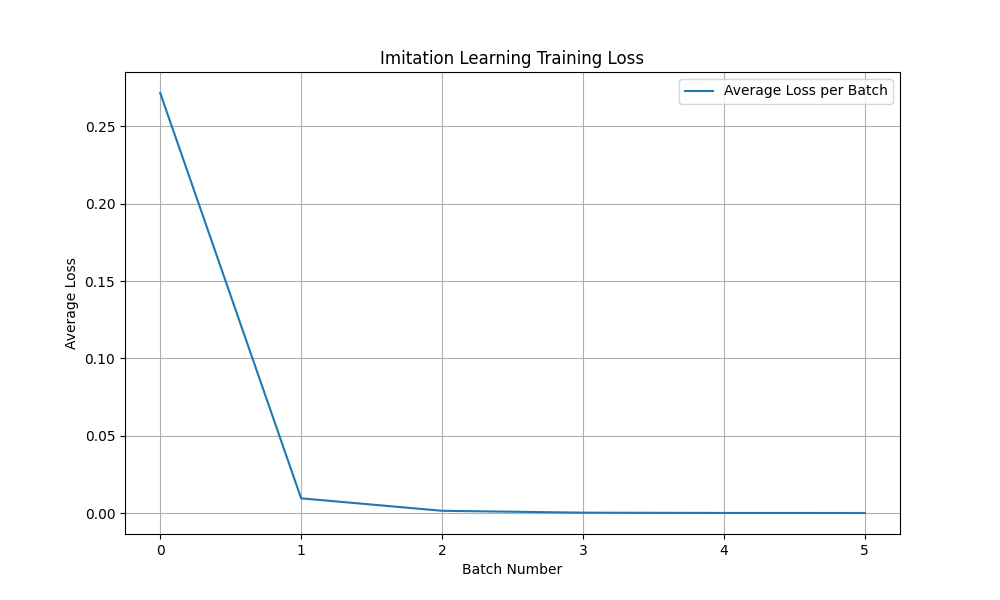
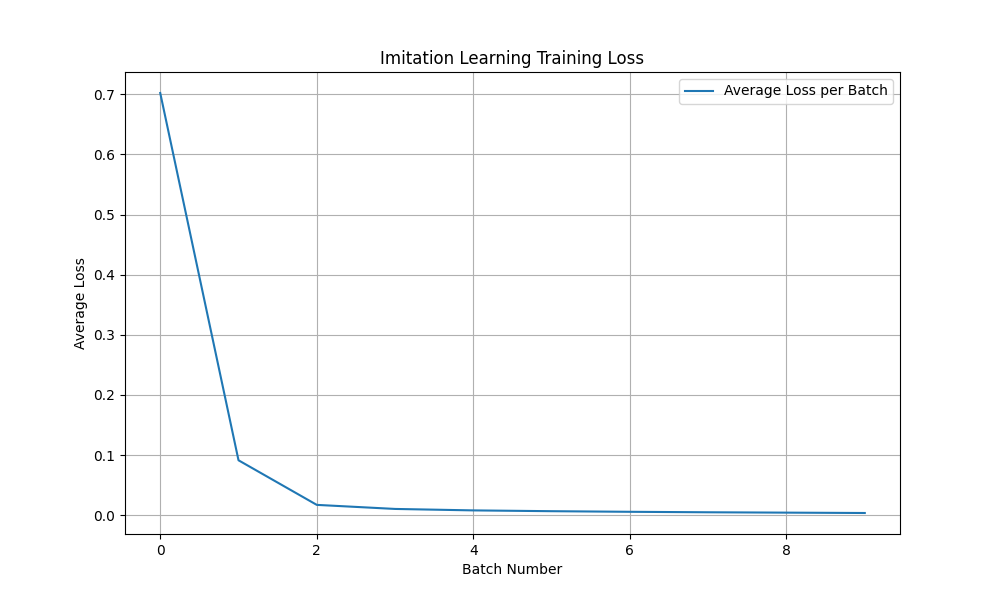
fix new column features

diff --git a/src/memory.py b/src/memory.py
@@ -150,15 +150,21 @@ class Memory():
         serializable_memory = []
         
         for experience in self.memory_list:
-            (state_array, piece_type), action, reward, (next_state_array, next_piece_type) = experience
+            (state_array, piece_type, state_column_features), action, reward, (next_state_array, next_piece_type, next_state_column) = experience
             
             serializable_memory.append((
-                (state_array.cpu().numpy() if torch.is_tensor(state_array) else state_array,
-                piece_type.cpu().numpy() if torch.is_tensor(piece_type) else piece_type),
+                (
+                    state_array.cpu().numpy() if torch.is_tensor(state_array) else state_array,
+                    piece_type.cpu().numpy() if torch.is_tensor(piece_type) else piece_type,
+                    state_column_features.cpu().numpy() if torch.is_tensor(state_column_features) else state_column_features
+                ),
                 action,
                 reward,
-                (next_state_array.cpu().numpy() if torch.is_tensor(next_state_array) else next_state_array,
-                next_piece_type.cpu().numpy() if torch.is_tensor(next_piece_type) else next_piece_type)
+                (
+                    next_state_array.cpu().numpy() if torch.is_tensor(next_state_array) else next_state_array,
+                    next_piece_type.cpu().numpy() if torch.is_tensor(next_piece_type) else next_piece_type, 
+                    next_state_column.cpu().numpy() if torch.is_tensor(next_state_column) else next_state_column
+                )
             ))
         
         with open(path, 'wb') as f:
@@ -185,16 +191,23 @@ class Memory():
         
         self.memory_list = []
         for experience in data['memory_list']:
-            (state_array, piece_type), action, reward, (next_state_array, next_piece_type) = experience
+            (state_array, piece_type, state_column_features), action, reward, (next_state_array, next_piece_type, next_state_column_features) = experience
             
             # Convert numpy arrays to tensors
             self.memory_list.append((
-                (torch.from_numpy(state_array).float() if isinstance(state_array, np.ndarray) else state_array,
-                torch.from_numpy(piece_type).float() if isinstance(piece_type, np.ndarray) else piece_type),
+                (
+                    torch.from_numpy(state_array).float() if isinstance(state_array, np.ndarray) else state_array,
+                    torch.from_numpy(piece_type).float() if isinstance(piece_type, np.ndarray) else piece_type,
+                    torch.from_numpy(state_column_features).float() if isinstance(state_column_features, np.ndarray) else state_column_features
+                ),
                 action,
                 reward,
-                (torch.from_numpy(next_state_array).float() if isinstance(next_state_array, np.ndarray) else next_state_array,
-                torch.from_numpy(next_piece_type).float() if isinstance(next_piece_type, np.ndarray) else next_piece_type)
+                (
+                    torch.from_numpy(next_state_array).float() if isinstance(next_state_array, np.ndarray) else next_state_array,
+                    torch.from_numpy(next_piece_type).float() if isinstance(next_piece_type, np.ndarray) else next_piece_type, 
+                    torch.from_numpy(next_state_column_features).float() if isinstance(next_state_column_features, np.ndarray) else next_state_column_features
+                ),
+                
             ))
         
 # ----------------------------------------------

diff --git a/src/q_agent.py b/src/q_agent.py
@@ -99,7 +99,7 @@ class Agent:
             else:
                 self.imitation_learning_memory = Memory(maxlen=30000)
                 self.imitation_learning_memory.load_memory(path=MEMORY_PATH)
-                #self.train_imitation_learning(batch_size=1024, epochs_per_batch=1)
+                self.train_imitation_learning(batch_size=1024, epochs_per_batch=10)
 
 
         logger.log(f"actions in __init__: {self.actions}")
@@ -171,7 +171,9 @@ class Agent:
         for (state_game_board, state_piece_type, state_column_features), action, _, _ in batch:
             states_game_board.append(state_game_board)
             piece_types.append(state_piece_type)
-            states_column_features.append(state_column_features)
+            if isinstance(state_column_features, np.ndarray):
+                state_column_features = torch.from_numpy(state_column_features).float()
+            states_column_features.append(state_column_features.reshape(-1))  # Flatten to 1D
             actions.append(action)
         
         # convert to tensors
@@ -179,6 +181,10 @@ class Agent:
         piece_types = torch.stack(piece_types).to(device)
         states_column_features = torch.stack(states_column_features).to(device)
         actions = torch.tensor(actions, dtype=torch.long).to(device)
+        
+        
+        # this reshape is necessary for imitation learning
+        state_column_features = states_column_features.view(states_game_board.size(0), -1)
 
         # Get model predictions
         q_values = self.model(

diff --git a/src/config.py b/src/config.py
@@ -28,7 +28,7 @@ FIFO_CONTROLS = "fifo_controls"
 LOGGING = False
 
 EPSILON_DECAY = 0.9955
-EPSILON = 1.0
+EPSILON = 0.2#1.0
 DISCOUNT = 0.96
 EPSILON_COUNTER_EPOCH = 50
 MIN_EPSILON = 0.045
@@ -78,7 +78,7 @@ PLOT_COUNTER = 50      # after 100 epochs save the plot
 MOVING_AVG_WINDOW_SIZE = 50        # for plots, what is moving avg?
 
 
-COUNTER_TETRIS_EXPERT = 1
+COUNTER_TETRIS_EXPERT = 2
 NUMBER_OF_PIECES      = 2       # how many pieces, default is 7 different (I, O, L, J, ...) 
                                 # must be the same as  AMOUNT_OF_PIECES in `tetris.hpp``
 
